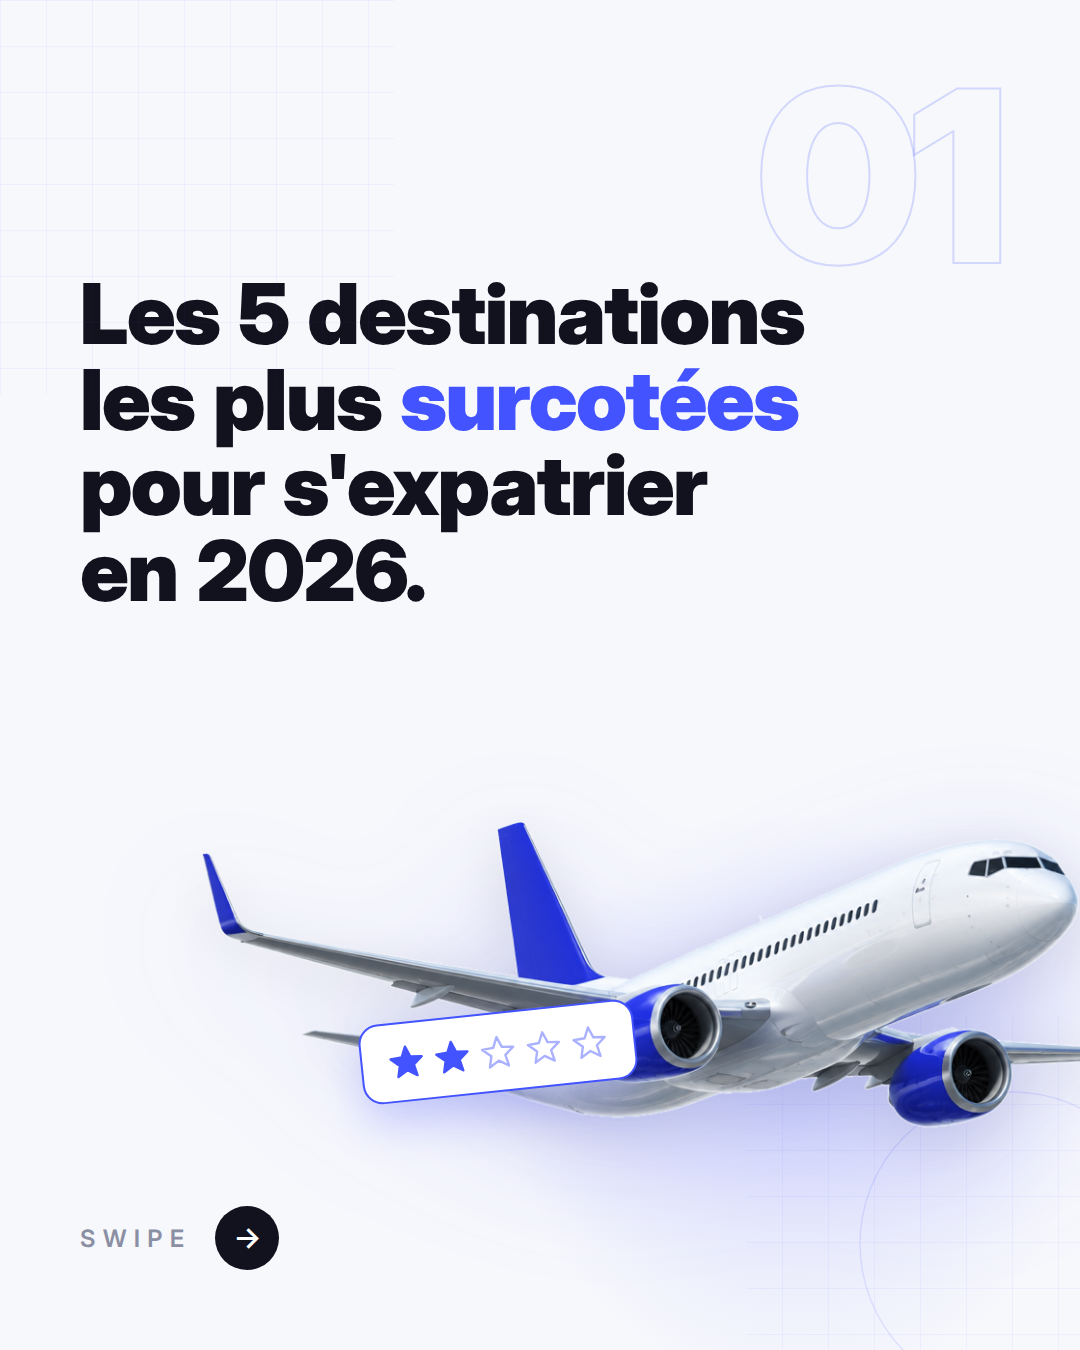
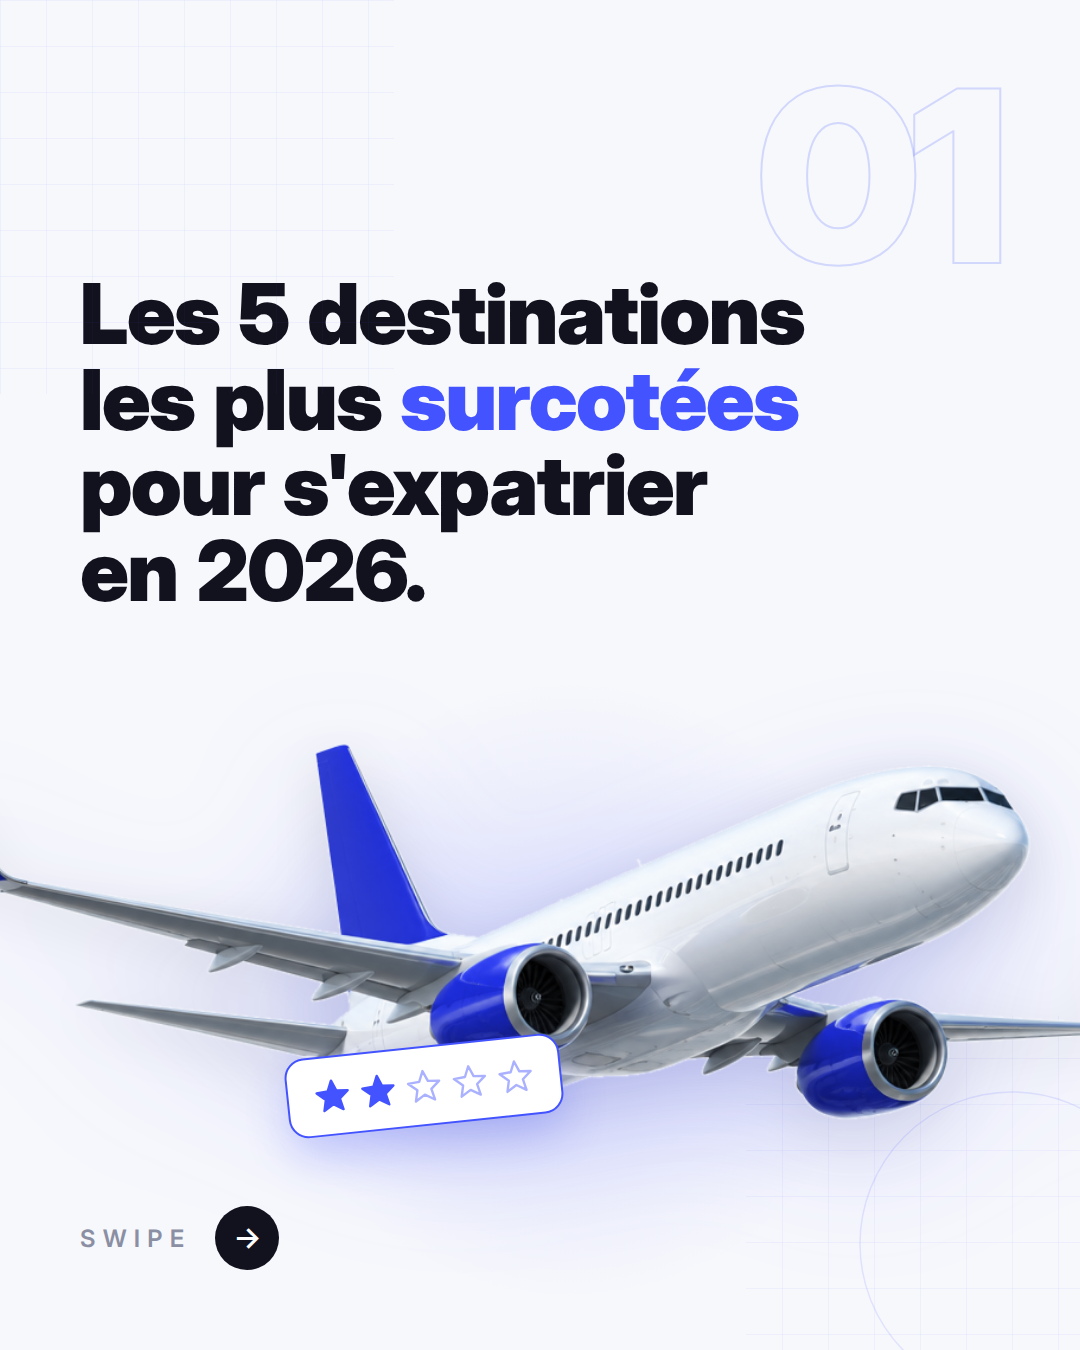
Couverture surcote : avion agrandi et recentre
L'avion passe de 960 a 1180px de large et deborde des deux cotes,
centre dans la moitie basse ; le halo et la carte de notation suivent.

Claude-Session: https://claude.ai/code/session_01JgjaVc8GDMA4sZRNpbXpxq

Changed region(s): [[0.0, 0.5289, 1.0, 0.8711]]

diff --git a/carrousel/slides/surcote/slide-01.html b/carrousel/slides/surcote/slide-01.html
@@ -25,9 +25,9 @@
         Les 5 destinations<br>les plus <span class="blue">surcotées</span><br>
         pour s'expatrier<br>en 2026.
       </h1>
-      <div class="halo bleed" style="left:400px;top:700px;width:800px;height:800px"></div>
+      <div class="halo bleed" style="left:140px;top:560px;width:860px;height:860px"></div>
       <img class="plane bleed" src="../../assets/surcote-avion.png" alt="">
-      <span class="rating" style="left:360px;top:1012px;transform:rotate(-6deg)">
+      <span class="rating" style="left:286px;top:1046px;transform:rotate(-6deg)">
         <svg width="36" height="36" viewBox="0 0 24 24" aria-hidden="true">
       <polygon points="12,2 14.9,8.9 22.4,9.5 16.7,14.4 18.4,21.7 12,17.8 5.6,21.7 7.3,14.4 1.6,9.5 9.1,8.9" fill="#4353FF" fill-opacity="1"
                stroke="#4353FF" stroke-opacity="1" stroke-width="1.6"

diff --git a/carrousel/src/slides-surcote.js b/carrousel/src/slides-surcote.js
@@ -101,9 +101,9 @@ module.exports = { DECOR, slides: [
         Les 5 destinations<br>les plus <span class="blue">surcotées</span><br>
         pour s'expatrier<br>en 2026.
       </h1>
-      <div class="halo bleed" style="left:400px;top:700px;width:800px;height:800px"></div>
+      <div class="halo bleed" style="left:140px;top:560px;width:860px;height:860px"></div>
       ${planeBlock}
-      <span class="rating" style="left:360px;top:1012px;transform:rotate(-6deg)">
+      <span class="rating" style="left:286px;top:1046px;transform:rotate(-6deg)">
         ${stars(2, { size: 36 })}
       </span>
       <div class="swipe" style="position:absolute;bottom:80px;left:80px">

diff --git a/carrousel/src/style.css b/carrousel/src/style.css
@@ -615,7 +615,7 @@ html, body {
 
 /* visuel détouré de la couverture « surcoté » : l'avion de ligne */
 .plane {
-  position: absolute; left: 200px; top: 820px; width: 960px;
+  position: absolute; left: -50px; top: 742px; width: 1180px;
   filter: drop-shadow(0 34px 66px rgba(67, 83, 255, 0.22))
           drop-shadow(0 12px 26px rgba(18, 18, 31, 0.10));
 }
